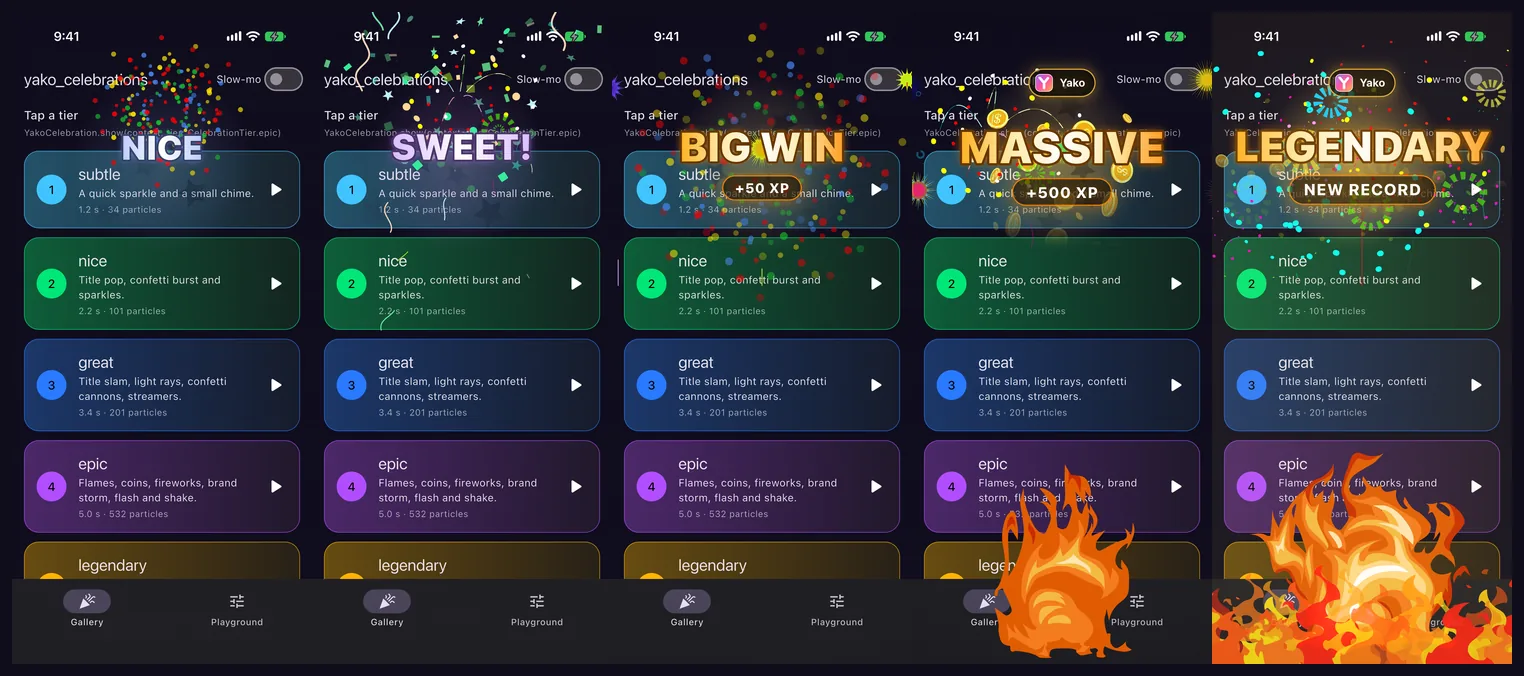
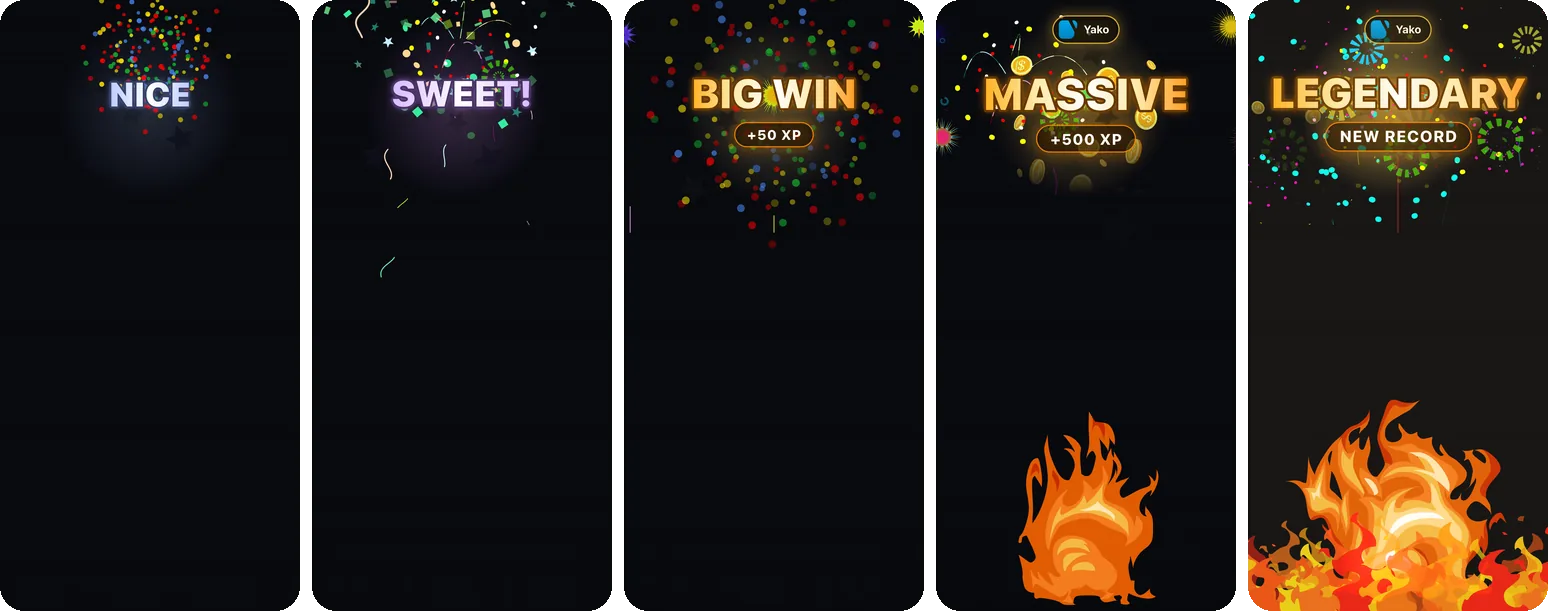
README: animations on a dark screen, Lottie hero, SVG brand note

diff --git a/README.md b/README.md
@@ -70,6 +70,10 @@ streamers, fireworks, a coin rain, fire) with a gold title that slams in and
 catches a light sweep:
 
 <p align="center">
+  <img src="https://raw.githubusercontent.com/yako-dev/flutter-yako-celebrations/main/screenshots/lottie_legendary.webp" width="300" alt="The lottieLegendary tier: a wall of flames, fireworks and coins under a gold title">
+</p>
+
+<p align="center">
   <img src="https://raw.githubusercontent.com/yako-dev/flutter-yako-celebrations/main/screenshots/lottie_tiers.webp" alt="The five Lottie tiers, from lottieSubtle to lottieLegendary">
 </p>
 
@@ -112,6 +116,10 @@ void main() {
   runApp(const MyApp());
 }
 ```
+
+The package ships no icon of its own: use a PNG from your assets as above,
+or any widget. For an SVG, add [`flutter_svg`](https://pub.dev/packages/flutter_svg)
+to your app and pass `icon: SvgPicture.asset('assets/logo.svg')`.
 
 Pass `brand:` to `show` to use another one for a single call. Without a brand,
 a neutral star pops up instead. A square icon with a transparent background
@@ -300,9 +308,9 @@ CelebrationPreview(
 
 ## Example
 
-The [example app](example/) has a gallery of every tier, a playground to build
-your own (effects, length, colours, brand, sound, scrubbing) and a slow-motion
-switch.
+The [example app](example/) has a gallery of every tier in both styles, a
+playground to build your own (effects, length, colours, brand, sound,
+scrubbing), and slow-motion and mute switches.
 
 ## Check out other Yako packages:
 
